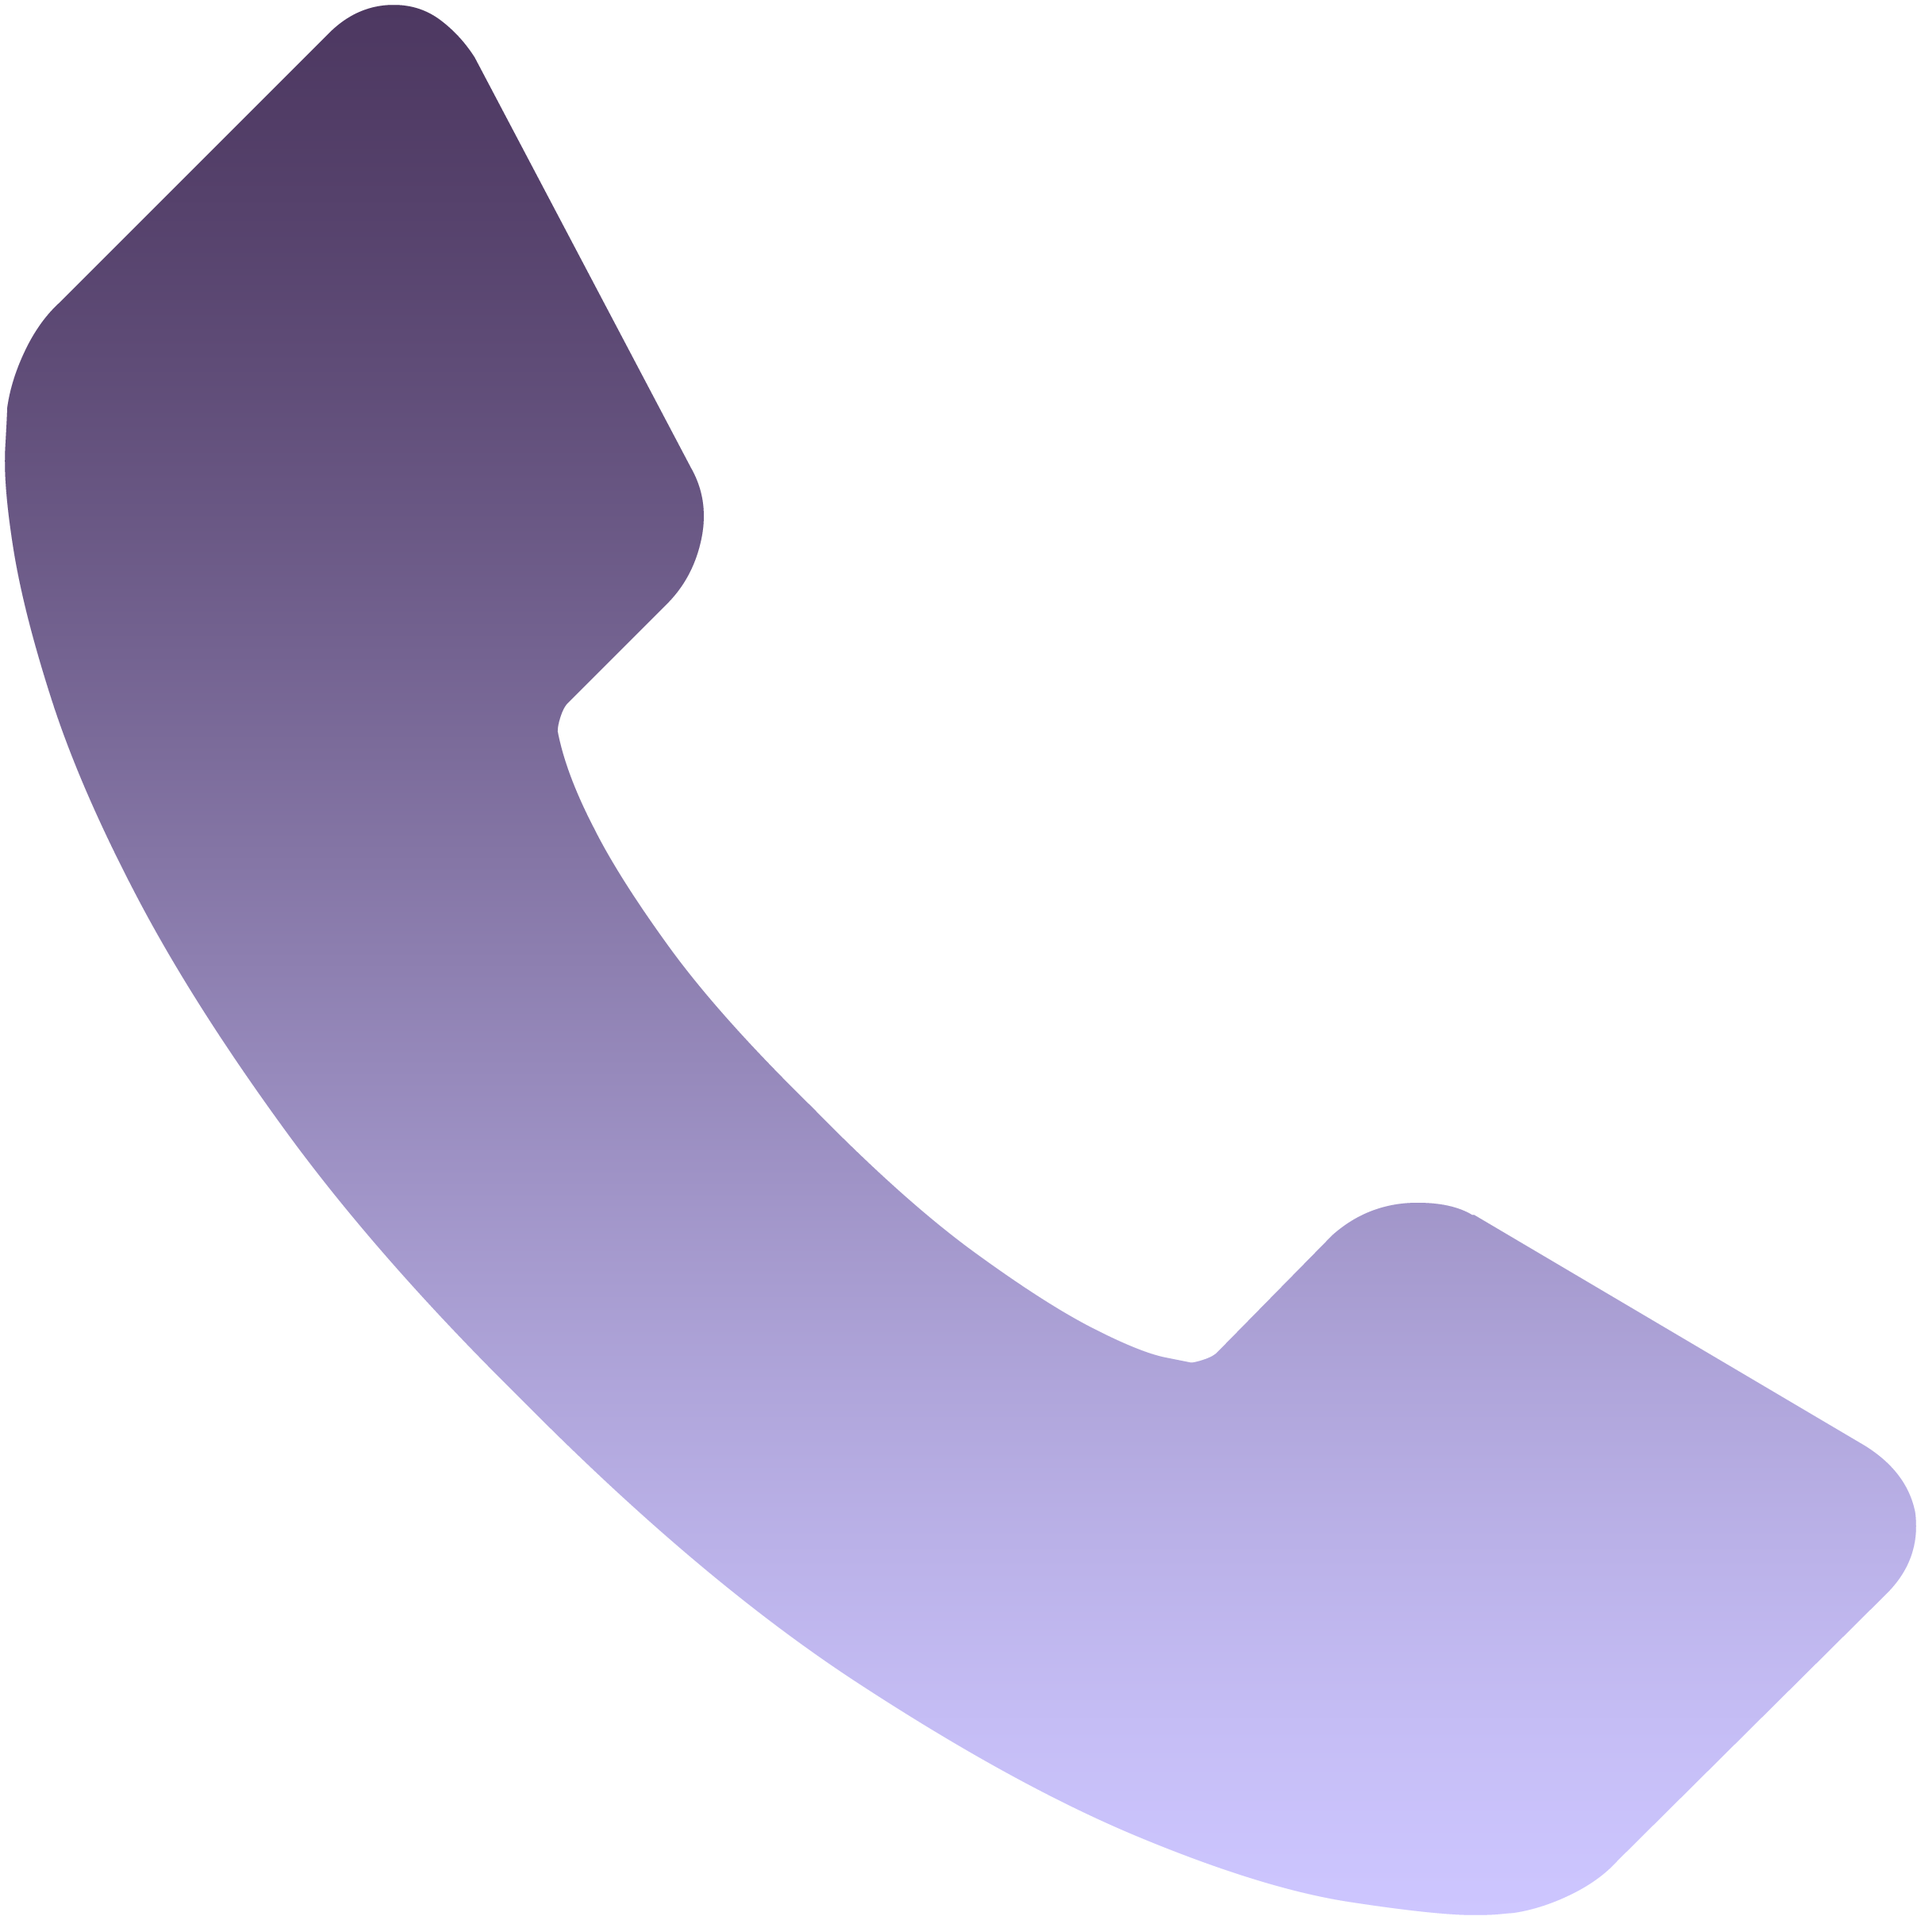
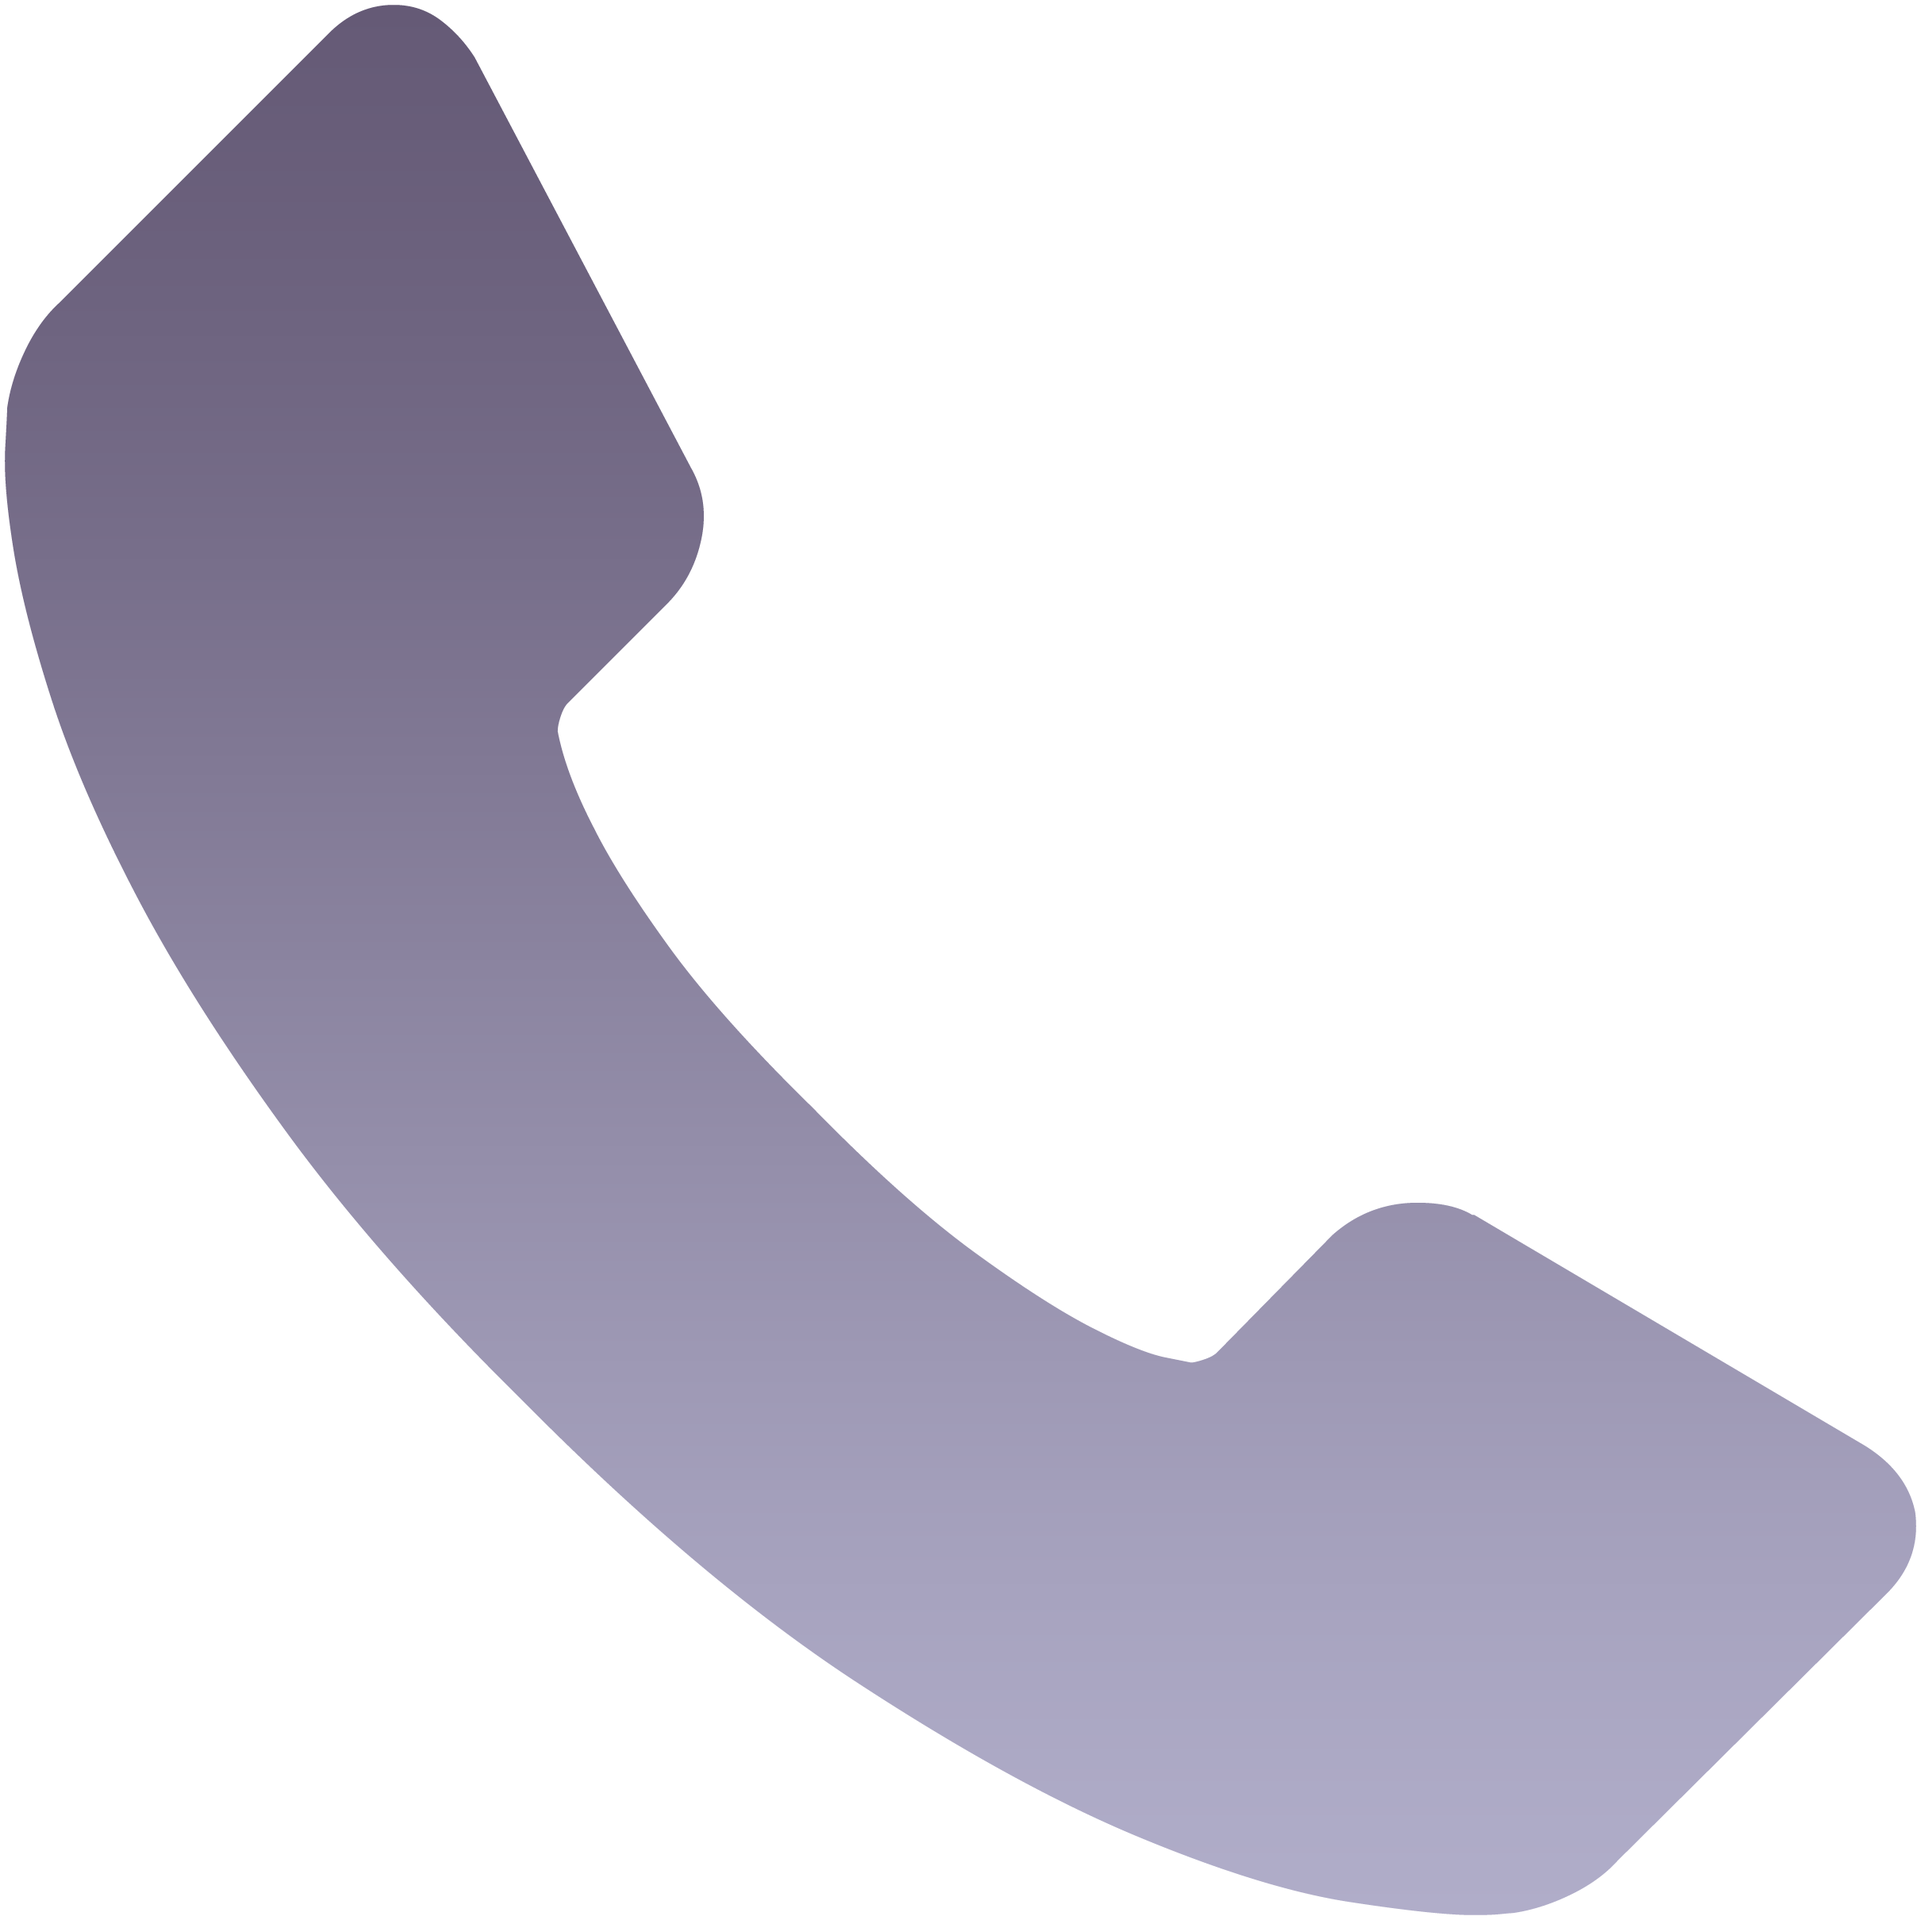
Change colour palette

Changed region(s): [[0.1549, 0.5579, 1.0, 1.0], [0.0, 0.0, 0.3408, 0.2169]]

diff --git a/app/assets/stylesheets/form.scss b/app/assets/stylesheets/form.scss
@@ -1,5 +1,5 @@
 body {
-  background: linear-gradient(#fcfcfc, #4d3861);
+  background: linear-gradient(#655a76, #fcfcfc 20%);
 }
 
 .container {
@@ -25,9 +25,10 @@ p {
 }
 
 input {
-  border: 1px solid #fcfcfc;
-  border-radius: 0.4vh;
-  background-color: rgba(235, 235, 235, 0.25);
+  border: none;
+  border-bottom: 0.15vh solid #655a76;
+  background-color: rgba(92, 63, 120, 0);
+  border-radius: 0;
 }
 
 // input:focus,
@@ -43,6 +44,7 @@ label {
 
 #doctor_image {
   margin-bottom: 0.4em;
+  border-bottom: none;
 }
 
 #doctor_name {
@@ -52,7 +54,7 @@ label {
 }
 
 #doctor_name::placeholder {
-  color: #fcfcfc;
+  color: #4d3861;
   font-size: 1em;
 }
 
@@ -64,7 +66,7 @@ label {
 }
 
 #doctor_name_sign_up::placeholder {
-  color: #fcfcfc;
+  color: #4d3861;
   font-size: 1em;
 }
 
@@ -75,7 +77,7 @@ label {
 }
 
 #doctor_email::placeholder {
-  color: #fcfcfc;
+  color: #4d3861;
   font-size: 1em;
 }
 
@@ -86,7 +88,7 @@ label {
 }
 
 #doctor_specialization::placeholder {
-  color: #fcfcfc;
+  color: #4d3861;
   font-size: 1em;
 }
 
@@ -97,7 +99,7 @@ label {
 }
 
 #doctor_password::placeholder {
-  color: #fcfcfc;
+  color: #4d3861;
   font-size: 1em;
 }
 
@@ -107,7 +109,7 @@ label {
 }
 
 #doctor_new_password::placeholder {
-  color: #fcfcfc;
+  color: #4d3861;
   font-size: 1em;
 }
 
@@ -118,7 +120,7 @@ label {
 }
 
 #doctor_password_confirmation::placeholder {
-  color: #fcfcfc;
+  color: #4d3861;
   font-size: 1em;
 }
 
@@ -128,7 +130,7 @@ label {
 }
 
 #doctor_current_password::placeholder {
-  color: #fcfcfc;
+  color: #4d3861;
   font-size: 1em;
 }
 
@@ -267,7 +269,8 @@ label {
 }
 
 .form-button {
-  background: #4d3861;
+  background: #655a76;
+  border-radius: 0;
 }
 
 .form-button:hover {
@@ -277,6 +280,7 @@ label {
 
 .link-wrapper {
   margin-top: 2vh;
+  text-align: center;
 }
 
 .cancel-acct {
@@ -285,4 +289,5 @@ label {
 
 #back-btn {
   margin: 0;
+  text-align: center;
 }

diff --git a/app/assets/stylesheets/application.scss b/app/assets/stylesheets/application.scss
@@ -19,10 +19,13 @@
   font-weight: 300;
 }
 
+body {
+  background: linear-gradient(#9288a3, #fcfcfc 33%);
+  height: 100vh;
+}
+
 nav {
-  background: linear-gradient(to right, #cdc6ff, #4d3861);
-  // position: relative;
-  // left: initial;
+  background: #9288a3;
   display: flex;
   flex-direction: column;
   justify-content: center;
@@ -58,11 +61,12 @@ nav {
 }
 
 .nav-links a {
-  color: rgb(226, 226, 226);
+  color: #4d3861;
   text-decoration: none;
   letter-spacing: 3px;
-  font-weight: bold;
   font-size: 14px;
+  font-family: "Roboto", sans-serif;
+  font-weight: 300;
 }
 
 .nav-links a:hover {
@@ -94,11 +98,14 @@ nav {
 .users-show {
   margin-top: 1.2em;
   text-align: center;
+  width: 100%;
 }
 
 .user-name-header {
   font-size: 1.75em;
-  color: #5c3f78;
+  font-family: "Roboto", sans-serif;
+  font-weight: 400;
+  color: #53475e;
   margin-top: 0.5em;
   margin-bottom: 0.3em;
 }
@@ -121,7 +128,7 @@ input {
   width: 100%;
   padding: 0.5em;
   border: none;
-  border-radius: 0.2em;
+  border-radius: 0;
   font-size: 0.8em;
   color: #fff;
   margin-top: 0.4em;
@@ -142,7 +149,7 @@ input {
 #search-submit-button {
   width: 15%;
   font-size: 1em;
-  background-image: linear-gradient(to right, #cdc6ff, #5c3f78);
+  background-image: #9288a3;
 }
 
 li {
@@ -169,12 +176,6 @@ li {
 #patient_remember_me {
   margin-left: -12px;
 }
-
-// @media screen and (max-width: 1024px) {
-//   .nav-links {
-//     width: 60%;
-//   }
-// }
 
 @media screen and (max-width: 768px) {
   body {
@@ -221,7 +222,7 @@ li {
     right: 0;
     height: 92vh;
     top: 7vh;
-    background: linear-gradient(to right, #cdc6ff, #4d3861);
+    background: linear-gradient(#9288a3, #fcfcfc 50%);
     display: flex;
     flex-direction: column;
     align-items: center;

diff --git a/app/assets/stylesheets/doctors.scss b/app/assets/stylesheets/doctors.scss
@@ -5,8 +5,9 @@
 .doctor-specialization {
   color: #777777;
   margin-bottom: 1em;
-  font-size: 1.5em;
-  font-family: "Roboto:700", sans-serif;
+  font-size: 1.2em;
+  font-family: "Roboto", sans-serif;
+  font-weight: 300;
 }
 
 #filterInput {
@@ -57,7 +58,7 @@
 }
 
 .patient-name a {
-  color: #5c3f78;
+  color: #53475e;
 }
 
 .patient-name a:hover {
@@ -72,5 +73,5 @@
 }
 
 .img-phone {
-  width: 40px;
+  width: 4vh;
 }

diff --git a/app/assets/stylesheets/home.scss b/app/assets/stylesheets/home.scss
@@ -3,7 +3,7 @@
 // You can use Sass (SCSS) here: http://sass-lang.com/
 
 body {
-  background: linear-gradient(#cdc6ff, #4d3861);
+  background: linear-gradient(#b0adc9, #4d3861);
   width: 100%;
   height: 100%;
 }
